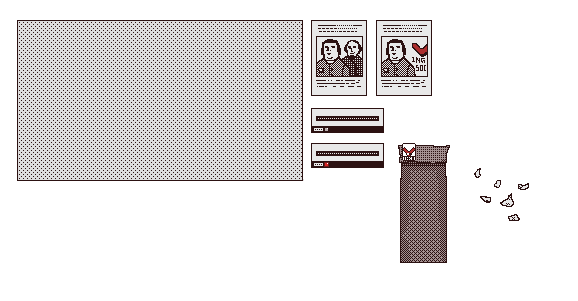
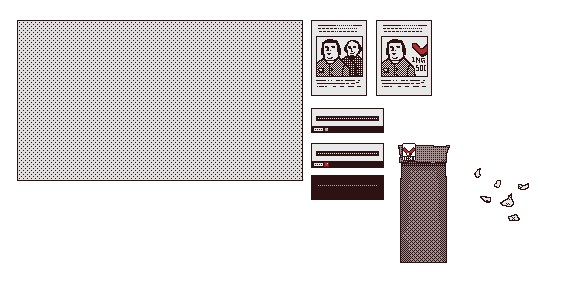
Add read zone image

Changed region(s): [[0.5294, 0.5681, 0.6851, 0.6877]]

diff --git a/Assets/Script/FileUIController.cs b/Assets/Script/FileUIController.cs
@@ -19,6 +19,7 @@ public class FileUIController : MonoBehaviour
     public DetailFileShow detailFileShow;
 
     public GameObject readUI;
+    public GameObject readZone;
 
     public GameObject filespawnLeft;    // reset the left file transform
     public GameObject filespawnRight;   // reset the right file transform
@@ -54,6 +55,7 @@ public class FileUIController : MonoBehaviour
     public void DisplayReadFIleUI(bool visible)
     {
         readUI.SetActive(visible);
+        readZone.GetComponent<SpriteRenderer>().enabled = visible;
         // Add animation here...
     }
 
